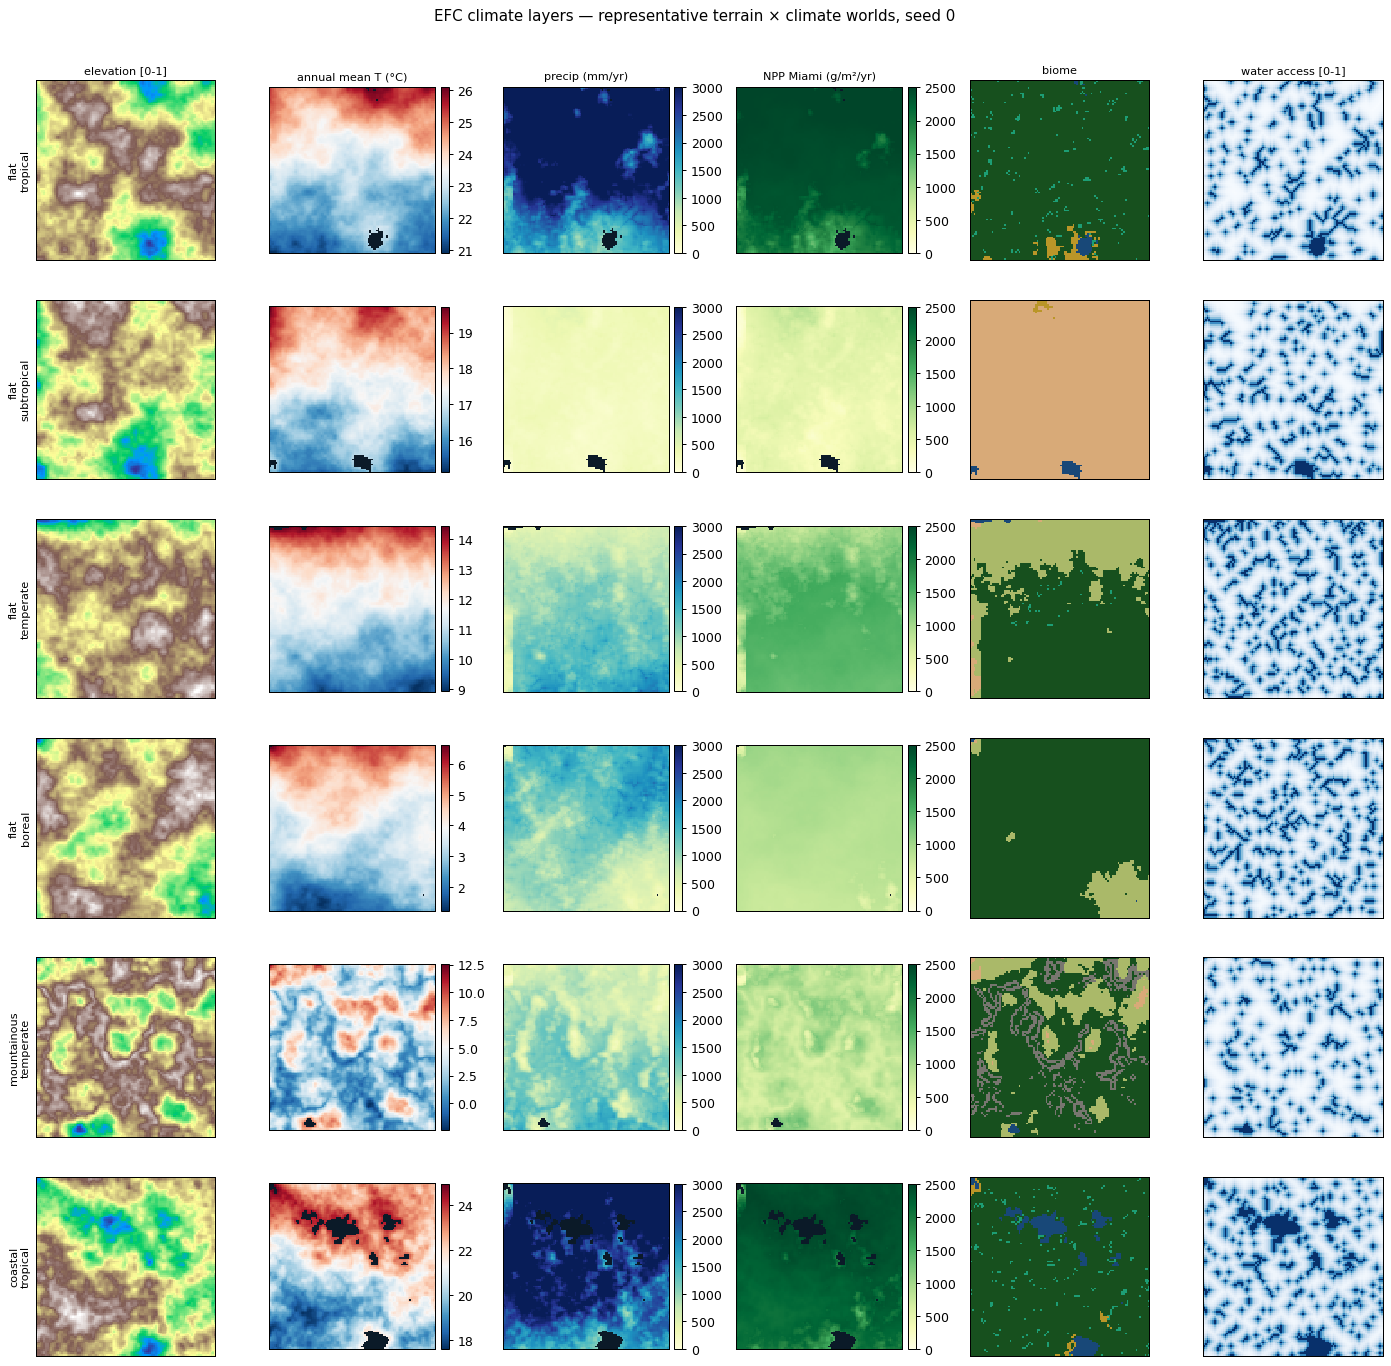
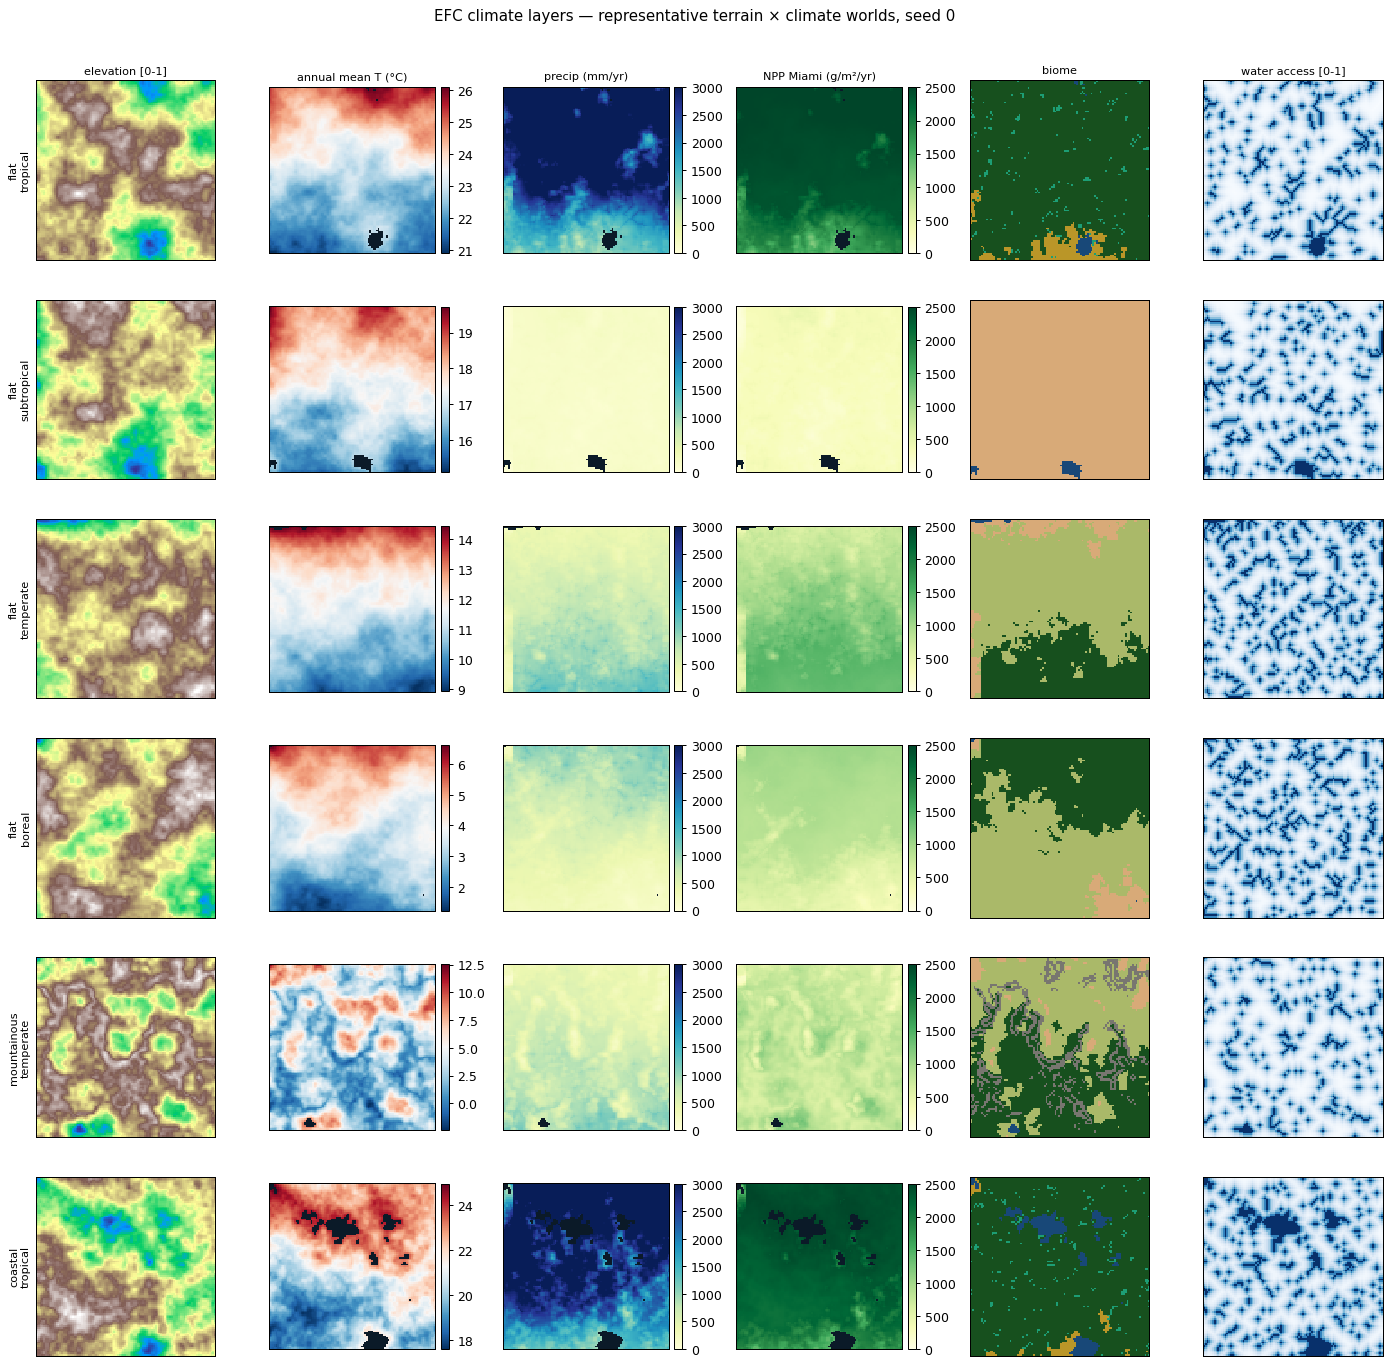
EFC C4 tuning: moisture-limited orographic uplift + polar dryness + tundra cold-cap
Resolves the two provisional items from R-50:

(1) Dry-region mountains were too wet (fixed multiplicative uplift lifted a
    350mm desert base into 900mm grass/forest). Fix: orographic uplift is now
    MOISTURE-LIMITED -- the enhancement scales with the regional air moisture
    (base precip x aridity / P_MOISTURE_REF). Dry subtropical air -> little
    orographic rain; wet tropical/temperate air -> strong. Result: mountainous-
    subtropical stays desert 89% (precip 41-239mm, Tibesti/Ahaggar), while
    tropical/temperate mountains keep their orographic forests (tropical to
    6132mm).

(2) Boreal read as uniform taiga. Fix: (a) polar-cell dryness -- precip declines
    past the mid-latitude storm track toward the pole; (b) Whittaker cold cap --
    below -5C mean a would-be FOREST becomes GRASS (tundra), cold+dry stays
    desert. Result: flat/mountainous boreal now a grass(tundra/steppe) ~52% +
    forest(taiga) ~41% mosaic, not solid forest.

Climate mode only; legacy bit-exact. 17 climate tests pass; full suite 654.
Re-rendered representative contact sheet confirms the boreal mosaic + arid
highlands.

diff --git a/sic_games/src/sic_games/terrain.py b/sic_games/src/sic_games/terrain.py
@@ -297,6 +297,13 @@ P_MARITIME_GAIN  = 0.3        # moisture supply: near-water (wateracc) cells wet
 P_ORO_WIND_DX    = 1          # prevailing wind = +x (westerlies): upwind is to the −x (west) side
 CLIMATE_ARIDITY_DAMP = 0.75   # climate_aridity∈[0,1] scales precip DOWN by up to this fraction (continental/leeward
                               # dryness independent of latitude — e.g. a temperate but arid interior like central Asia)
+# Orographic rain is MOISTURE-LIMITED — a mountain can only wring out the moisture the air carries. So the uplift
+# enhancement scales with the regional air moisture (base precip × aridity); dry subtropical highlands stay arid.
+P_MOISTURE_REF_MM  = 1500.0   # base precip at which orographic uplift is FULL; below → proportionally weaker
+P_UPLIFT_MIN_AVAIL = 0.12     # floor on moisture-availability (even dry air gives a little orographic rain)
+# Polar-cell dryness: descending dry air toward the pole → precip declines past the mid-latitude storm track.
+POLAR_DRY_ONSET    = 0.72     # cell_lat beyond which polar dryness ramps in
+POLAR_DRY_GAIN     = 0.55     # max fractional precip reduction at the pole edge
 # ── Economy-from-Climate C3 (mode="climate"): the MIAMI MODEL — NPP from temperature & precipitation ──
 # Lieth 1972/1975 (PDF filed; eqs 12-1/12-2, VERIFIED). NPP = min(temperature-limited, precipitation-limited),
 # g dry-matter/m²/yr. Coefficients are the published least-squares fit (50 sites / 5 continents). LITERATURE.md.
@@ -323,6 +330,7 @@ WHIT_DESERT_BASE   = 200.0    # P (mm/yr) below (BASE + SLOPE·max(T,0)) → DES
 WHIT_DESERT_SLOPE  = 15.0
 WHIT_FOREST_BASE   = 500.0    # P (mm/yr) above (BASE + SLOPE·max(T,0)) → FOREST
 WHIT_FOREST_SLOPE  = 35.0
+WHIT_TUNDRA_T      = -5.0     # below this mean-annual T it is too cold for trees → would-be FOREST becomes GRASS (tundra)
 
 
 def whittaker_biome(temperature_c, precip_mm):
@@ -340,6 +348,8 @@ def whittaker_biome(temperature_c, precip_mm):
     biome[grass_zone & warm] = BIOME_SAVANNA
     biome[P >= forest_thr] = BIOME_FOREST
     biome[P < desert_thr] = BIOME_DESERT
+    # cold cap: too cold for trees → tundra (open, → GRASS); a would-be FOREST becomes GRASS. Cold+dry stays DESERT.
+    biome[(T < WHIT_TUNDRA_T) & (biome == BIOME_FOREST)] = BIOME_GRASS
     return biome
 GRASS_NONE   = 0             # grass_subtype codes
 GRASS_LLANOS = 1             # tropical GRASS (Hurtado & Hill Hiwi/Cuiva) → wet/dry flood-tail regime (C.4c)
@@ -712,16 +722,19 @@ def generate_world(knobs: dict, mode: str = "legacy") -> WorldFields:
         # C2: precip regime set by the cell's ABSOLUTE latitude on the Hadley/ITCZ curve × orographic × maritime × noise.
         itcz = P_ITCZ_MM * np.exp(-(cell_lat / P_ITCZ_WIDTH) ** 2)
         midlat = P_MIDLAT_MM * np.exp(-((cell_lat - P_MIDLAT_CENTER) / P_MIDLAT_WIDTH) ** 2)
-        p_band = P_BASE_MM + itcz + midlat
-        # orographic uplift (high ground wetter) × rain shadow (dry in the lee of upwind high terrain)
-        uplift = 1.0 + P_ELEV_UPLIFT * elev
+        # polar-cell dryness: precip declines past the mid-latitude storm track toward the pole
+        polar_dry = 1.0 - POLAR_DRY_GAIN * np.clip((cell_lat - POLAR_DRY_ONSET) / (1.0 - POLAR_DRY_ONSET), 0.0, 1.0)
+        aridity = 1.0 - CLIMATE_ARIDITY_DAMP * float(knobs.get("climate_aridity", 0.0))   # continental/leeward dryness
+        p_band = (P_BASE_MM + itcz + midlat) * polar_dry * aridity            # the REGIONAL air-moisture supply
+        # orographic uplift is MOISTURE-LIMITED (scales with available air moisture) × rain shadow (dry lee)
+        moist_avail = np.clip(p_band / P_MOISTURE_REF_MM, P_UPLIFT_MIN_AVAIL, 1.0)
+        uplift = 1.0 + P_ELEV_UPLIFT * elev * moist_avail
         upwind_max = elev.copy()
         for _s in range(1, P_ORO_SHADOW_CELLS + 1):
             upwind_max = np.maximum(upwind_max, np.roll(elev, _s * P_ORO_WIND_DX, axis=1))
         shadow = np.clip(1.0 - P_ORO_SHADOW_GAIN * np.maximum(0.0, upwind_max - elev), P_ORO_MIN, 1.0)
         oro = np.clip(uplift * shadow, P_ORO_MIN, P_ORO_MAX)
-        aridity = 1.0 - CLIMATE_ARIDITY_DAMP * float(knobs.get("climate_aridity", 0.0))   # continental/leeward dryness
-        precip_mm = np.clip(p_band * oro * (1.0 + P_MARITIME_GAIN * wateracc) * (0.7 + 0.6 * moist) * aridity, 0.0, None)
+        precip_mm = np.clip(p_band * oro * (1.0 + P_MARITIME_GAIN * wateracc) * (0.7 + 0.6 * moist), 0.0, None)
         precip_mm[isWater == 1] = 0.0
     else:
         temperature = temp_lat
